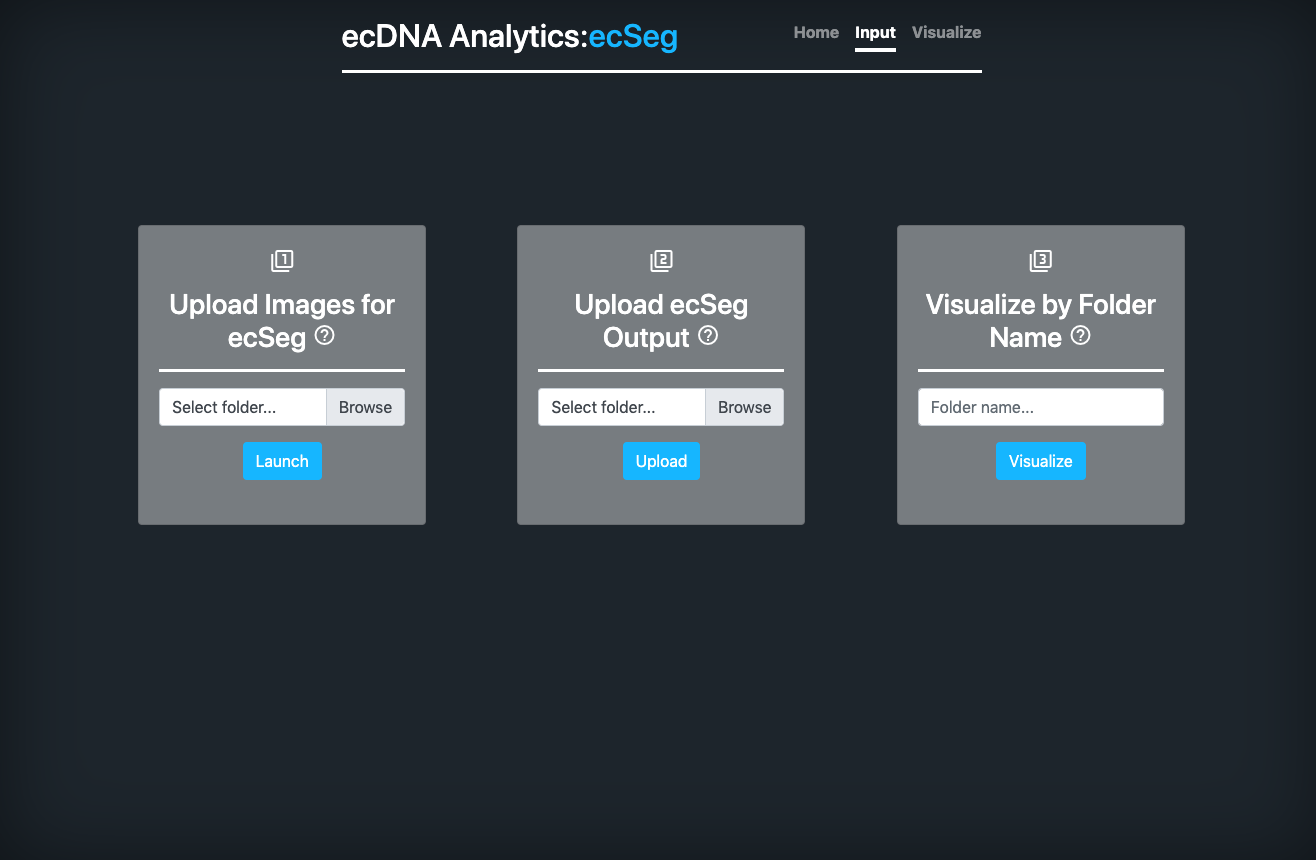
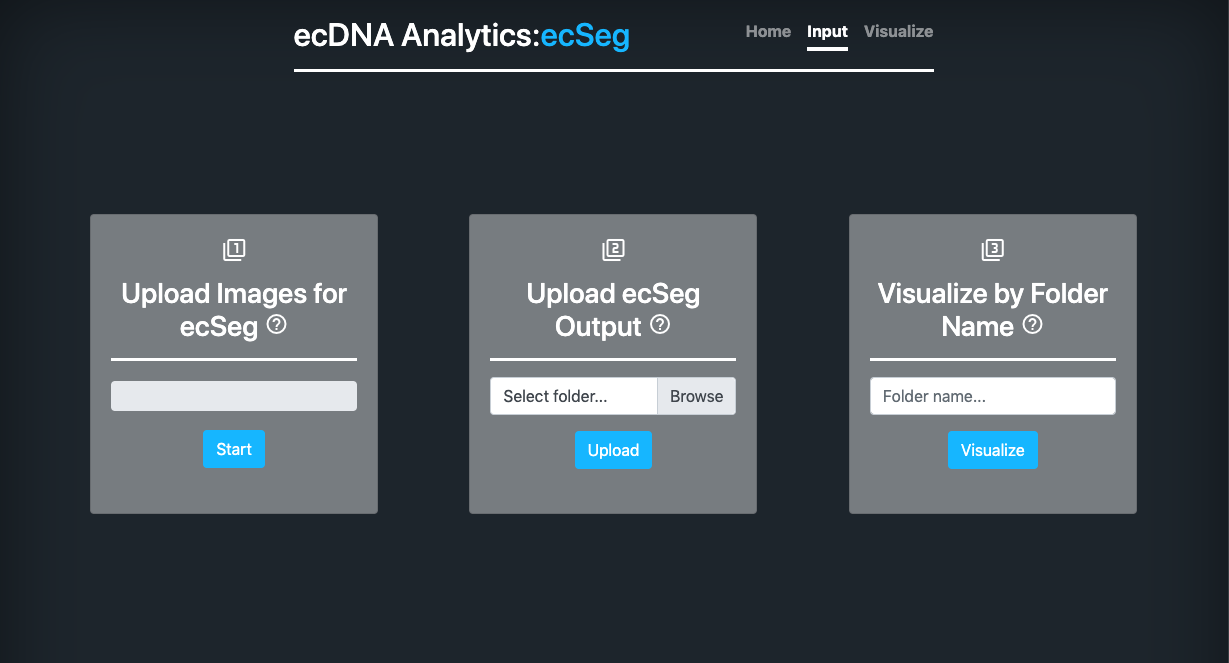
version one completed (demo ready)

diff --git a/app/templates/input.html b/app/templates/input.html
@@ -59,13 +59,13 @@
                         <h3><i class="material-icons">filter_1</i></h3>
                         <h3>Upload Images for ecSeg <span tabindex="0" id="firstinfo" class="material-icons info" role="button" data-placement="left"
                             data-toggle="popover" data-trigger="focus" title="Uploading Input Images Info"
-                            data-message="To run ecSeg, select a folder containing input images (DAPI / FISH metaphase spreads, TIF only). After ecSeg is run, the output images will be visualized. Save the timestamped folder name for future reference.">&#xe8fd;</span> </h3>
+                            data-message="Click Start. To run ecSeg, select a folder containing input images (DAPI / FISH metaphase spreads, TIF only). Additionally, enter your email in the prompt to be notified when ecSeg has completed its tasks and visualizations are ready. After ecSeg is run, the output images will be visualized. Save the timestamped folder name for future reference.">&#xe8fd;</span> </h3>
                         <hr class='line' style="margin-bottom: 20px;">
                         <div class="progress" style="height: 30px;">
                             <div class="progress-bar progress-bar-striped progress-bar-animated" role="progressbar" aria-valuenow="75"
                                 aria-valuemin="0" aria-valuemax="100" style="width: 0%; background-color: rgb(24, 190, 255); ">0%</div>
                         </div>
-                        <button type="button" class="btn btn-primary" style="margin-top: 19px;" data-toggle="modal" data-target="#ecSegModal">Launch</button>                    
+                        <button type="button" class="btn btn-primary" style="margin-top: 19px;" data-toggle="modal" data-target="#ecSegModal">Start</button>                    
                     </div>
                 </div>
                 <div class="card" style="width: 18rem;">
@@ -127,7 +127,7 @@
                                         <div class="form-group">
                                             <input class="form-control" type="email" name="email" placeholder="Email">
                                         </div>
-                                        <div id="runalert" class="alert alert-primary" style="text-align: left; display: none;">- please wait as ecSeg is running<br>- an email will be sent when visualizations are ready<br>- please do not click the 'run ecSeg' button repeatedly</div>
+                                        <div id="runalert" class="alert alert-primary" style="text-align: left; display: none;">- please wait as ecSeg is running<br>- an email will be sent when visualizations are ready</div>
                                     </div>
                                     <div class="modal-footer">
                                         <button type="button" id="closebtn" class="btn btn-danger"  data-dismiss="modal" aria-label="Close">Close</button>
